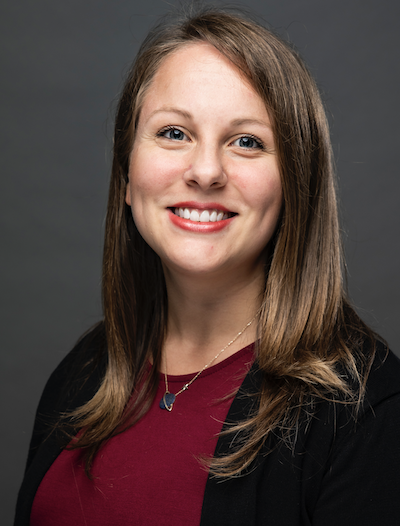
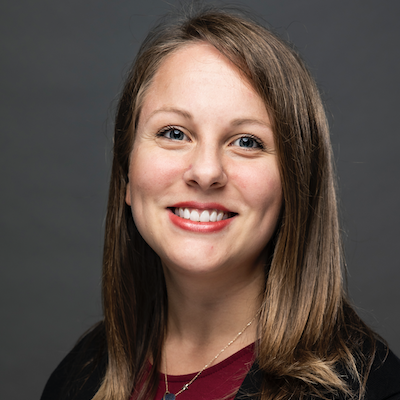
Sync AB blog roster with advisory board page; square-crop Jarmak headshot
Add the three 2026 members (Narayanan, Jarmak, Caprarelli) to the shared
advisory board blog include so the ADS and SciX blog posts match the
SciX Advisory Board page.

Crop 18.png from 400x526 to 400x400 anchored at the top, so the floated
headshot renders at the same 200x200 as every other board member.

diff --git a/_includes/_blogcontent/2025-06-17-scix-advisory-board.md b/_includes/_blogcontent/2025-06-17-scix-advisory-board.md
@@ -145,3 +145,30 @@ Dr. Matthew Graham is Research Professor of Astronomy at the California Institut
 *Disciplinary Expertise: Heliophysics*
 
 Dr. Alex Young is an astrophysicist and science communicator specializing in heliophysics, space weather, data science, and public outreach. With over two decades of experience in research, education, and media engagement, he has dedicated his career to advancing our understanding of solar dynamics and their impact on Earth. Dr. Young has authored numerous journal articles, written popular science pieces, and delivered presentations around the world to share his work and inspire curiosity. His goal is to connect people with the wonders of space and empower them with knowledge about our universe.
+
+---
+
+## Anand "Sunny" Narayanan
+![Anand "Sunny" Narayanan](/about/img/scixab/17.png){: style="float: left; margin-right: 20px; width: 200px;"}
+**Research Faculty, Florida State University**  
+*Disciplinary Expertise: Space Physiology/Human Space Exploration*
+
+Dr. Anand "Sunny" Narayanan is a Research Faculty member at Florida State University specializing in space and medical physiology. He earned his Ph.D. in Medical and Space Physiology from Texas A&M University and dual B.S. degrees in Mechanical Engineering and Biology from West Virginia University. His research investigates the physiological effects of deep space radiation and reduced lunar and Martian gravity on the cardiovascular, immune, and musculoskeletal systems, with findings relevant to human missions to the Moon and Mars. Dr. Narayanan has supported NASA projects since serving as a high school intern, including systems engineering work at the Katherine Johnson IV&V Facility and biomedical research flown to the International Space Station. A first-generation immigrant from a disadvantaged background, he is active in mentoring students and early-career professionals pursuing human spaceflight careers.
+
+---
+
+## Stephanie Jarmak
+![Stephanie Jarmak](/about/img/scixab/18.png){: style="float: left; margin-right: 20px; width: 200px;"}
+**Applied Research Scientist & AI Agent Advocate, Sourcegraph**  
+*Disciplinary Expertise: Planetary Science/AI for Scientific Discovery*
+
+Dr. Stephanie Jarmak is an Applied Research Scientist and AI Agent Advocate at Sourcegraph, where she leads applied research on agentic systems and code intelligence. She previously served as Project Scientist for Planetary Science at NASA's Astrophysics Data System (ADS) and SciX, developing NLP and knowledge-graph capabilities for scientific discovery, and conducted research at the Southwest Research Institute analyzing JWST and spacecraft data. Dr. Jarmak earned her Ph.D. in Physics/Planetary Science from the University of Central Florida, an M.S. in Physics from Texas A&M University-Commerce, and a B.S. in Earth, Atmospheric and Planetary Sciences from MIT. Her research has spanned asteroid spectroscopy, regolith dynamics, and lunar dust mitigation for crewed missions, and she was honored by the International Astronomical Union with an asteroid naming in 2023.
+
+---
+
+## Graziella Caprarelli
+![Graziella Caprarelli](/about/img/scixab/19.png){: style="float: left; margin-right: 20px; width: 200px;"}
+**Adjunct Research Fellow, Centre for Astrophysics, University of Southern Queensland**  
+*Disciplinary Expertise: Planetary Geology/Mars Science*
+
+Dr. Graziella Caprarelli is an Adjunct Research Fellow at the Centre for Astrophysics, University of Southern Queensland, and Editor-in-Chief of the AGU journal *Earth and Space Science*. She earned her Ph.D. in Earth Sciences and M.S. in Geological Sciences from Sapienza University of Rome. Her research spans volcanic and tectonic processes on Earth and Mars, impact cratering of planetary surfaces, and the stability of water and ice on Mars, and she is a member of the MARSIS radar sounder science team on ESA's Mars Express mission. Dr. Caprarelli is a Fellow of the Australian Institute of Geoscientists and was named Australian Space Scientist of the Year in 2021.
